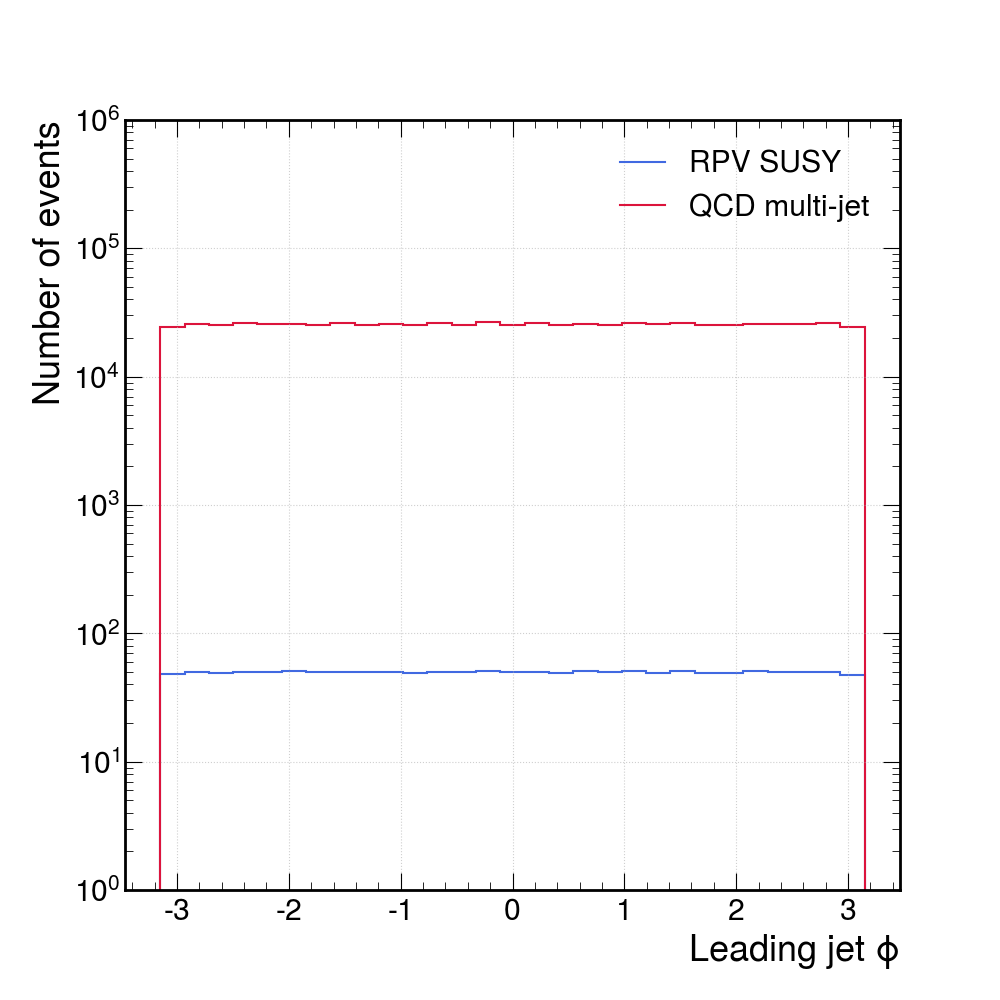
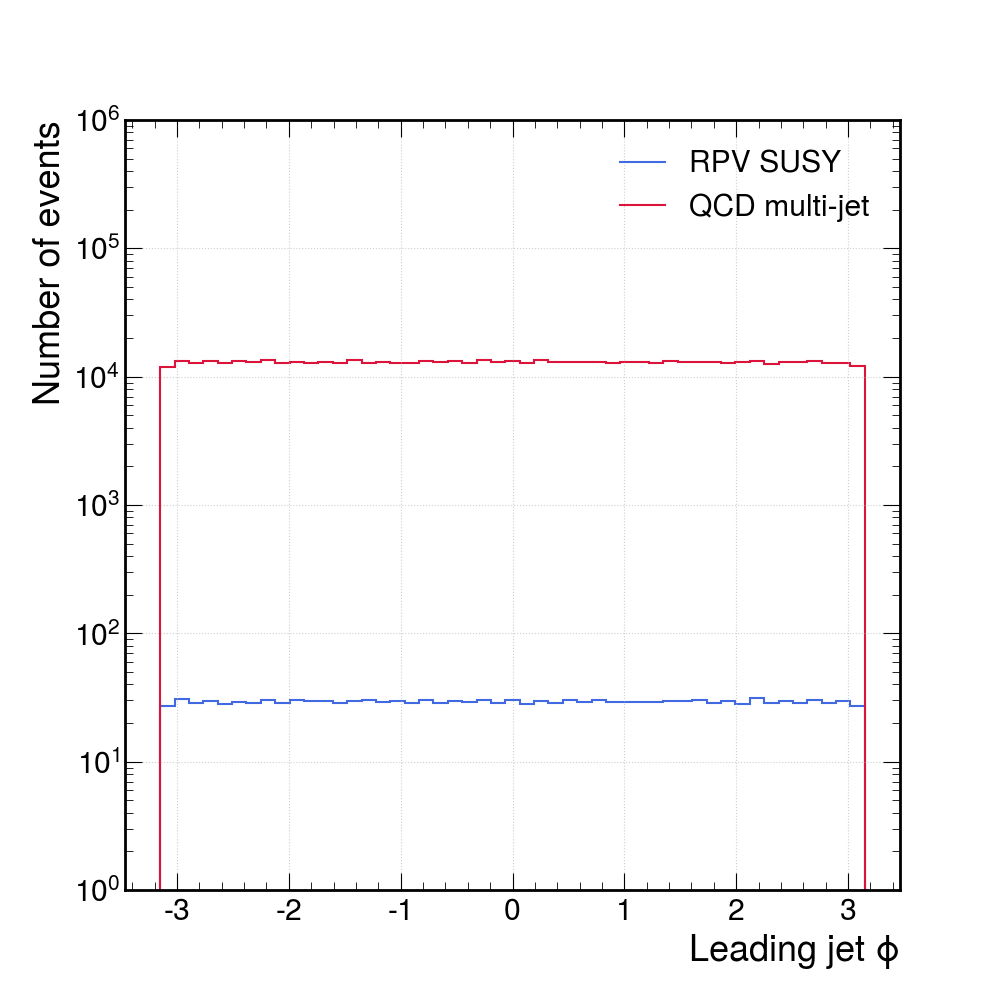
HT fix

Changed region(s): [[0.837, 0.341, 0.868, 0.372], [0.155, 0.341, 0.186, 0.372]]

diff --git a/Phyiscs/uproot/draw.py b/Phyiscs/uproot/draw.py
@@ -7,29 +7,27 @@ import glob
 def Stack_hist(sample_list,xsec,gen,histname):
 	n_sel=0
 	hsumw=0
-	bins = 50
+	bins = np.linspace(500,3000,50)
 	for f in sample_list:
-		
 		hist_dict = np.load(f,allow_pickle=True)[()]
 		hist_arr  = hist_dict[histname]
 		n_sel+=  len(hist_arr)
 		weight_arr = np.ones(len(hist_arr)) *Lumi * xsec / gen
 		hcontents, hbin, _ = plt.hist(hist_arr,bins=bins,weights=weight_arr)
 		hsumw += hcontents
-	
 	return hbin,hsumw,n_sel,histname
 
 def read_data():
-	RPV_path= "npys/RPV/RPV_*.npy"
+	RPV_path= "npys_210831/RPV/RPV_*.npy"
 	RPV_list = glob.glob(RPV_path)
 	
-	QCD1000_path = "npys/QCD1000/QCD1000*.npy"
+	QCD1000_path = "npys_210831/QCD1000/QCD1000*.npy"
 	QCD1000_list = glob.glob(QCD1000_path)
 	
-	QCD1500_path = "npys/QCD1500/QCD1500*.npy"
+	QCD1500_path = "npys_210831/QCD1500/QCD1500*.npy"
 	QCD1500_list = glob.glob(QCD1500_path)
 	
-	QCD2000_path = "npys/QCD2000/QCD2000*.npy"
+	QCD2000_path = "npys_210831/QCD2000/QCD2000*.npy"
 	QCD2000_list = glob.glob(QCD2000_path)
 
 	return RPV_list, QCD1000_list, QCD1500_list, QCD2000_list
@@ -50,7 +48,12 @@ if __name__ == "__main__":
 	Lumi = 63.67 * 1000
 	
 	#histname = 'Jet_eta'
-	histname = 'Jet_phi'
+	#histname = 'Jet_phi'
+	#histname = 'Njet'
+	#histname = 'Nbjet'
+	#histname = 'HT'
+	histname = 'MassFatJet'
+
 
 	#2 --File I/O
 	RPV_list, QCD1000_list, QCD1500_list, QCD2000_list = read_data()	
@@ -74,12 +77,13 @@ if __name__ == "__main__":
 
 	hep.histplot(RPV_hsumw, hbin,color='royalblue',histtype='step',label='RPV SUSY')
 	hep.histplot(QCD_hsumw, hbin,color='crimson',histtype='step',label='QCD multi-jet')
-
-	plt.xlabel('Leading Jet eta')
+	plt.xlabel('Mass sum of fatjets')
 	plt.ylabel('Number of events')
 	plt.ylim([1,1000000])
+#	plt.xlim([1500,8000])
 	plt.yscale('log')
 	plt.legend()
+	plt.grid(alpha=0.6)
 
 	outname = histname + '.png'
 	plt.savefig(outname)

diff --git a/Phyiscs/uproot/execute.py b/Phyiscs/uproot/execute.py
@@ -3,7 +3,10 @@ import subprocess
 
 
 ##### -----Please add input hist list here
-file_list  = glob.glob("RPV/Gluino1400GeV/0000/*.root")
+#file_list  = glob.glob("RPV/Gluino1400GeV/0000/*.root")
+#file_list  = glob.glob("QCDBkg/HT1000to1500/*/*.root")
+#file_list  = glob.glob("QCDBkg/HT1500to2000/*/*.root")
+file_list  = glob.glob("QCDBkg/HT2000toInf/*/*.root")
 
 
 def calc_Nout(maxfile,nfile):
@@ -12,10 +15,8 @@ def calc_Nout(maxfile,nfile):
 	return(nout)
 
 
-
 ##### -----Please add batch size here 
 maxfile=10 # Max number of input files for each run 
-
 
 
 
@@ -28,10 +29,10 @@ for i in range(nout):
 	infiles = (' '.join(file_list[start:end]))
 
 
-	fn_out = "RPV_" + str(i) + ".npy"
+	#fn_out = "RPV_" + str(i) + ".npy"
 	#fn_out = "QCD1000_" + str(i) + ".npy"
 	#fn_out = "QCD1500_" + str(i) + ".npy"
-	#fn_out = "QCD2000_" + str(i) + ".npy"
+	fn_out = "QCD2000_" + str(i) + ".npy"
 
 
 	print("############################## SET: ",fn_out)

diff --git a/Phyiscs/uproot/selector.py b/Phyiscs/uproot/selector.py
@@ -60,7 +60,7 @@ def Loop(flist,brancher):
 		})
 
 
-		HT = arrays["ScalarHT.HT"]
+		#HT = arrays["ScalarHT.HT"]
 
 		## 2 -- Selections
 		
@@ -70,11 +70,12 @@ def Loop(flist,brancher):
 		Jet_evt_sel_mask = ak.num(Jet) >= 4
 
 		Jet		  = Jet[Jet_evt_sel_mask]
-		HT			 = HT[Jet_evt_sel_mask]
+		#HT			 = HT[Jet_evt_sel_mask]
 		FatJet	   = FatJet[Jet_evt_sel_mask]
 
 		# HT selection
-		HT_mask   = ak.flatten(HT >= 1500)
+		HT = ak.sum(Jet.PT,axis=-1)
+		HT_mask   = (HT >= 1500)
 
 		Jet		  = Jet[HT_mask]
 		HT			 = HT[HT_mask]
@@ -117,7 +118,8 @@ def Loop(flist,brancher):
 
 		# Others
 		h_Njet  = ak.to_numpy(ak.num(Jet_sel))
-		h_HT    = ak.to_numpy(ak.flatten(HT_sel))
+		#h_HT    = ak.to_numpy(ak.flatten(HT_sel))
+		h_HT    = ak.to_numpy(HT_sel)
 		h_Nbjet = ak.to_numpy(ak.sum(Jet_sel.BTag > 0.5,axis=-1))
 		h_Mfjet = ak.to_numpy(ak.sum(FatJet_sel.Mass,axis=-1))
 
